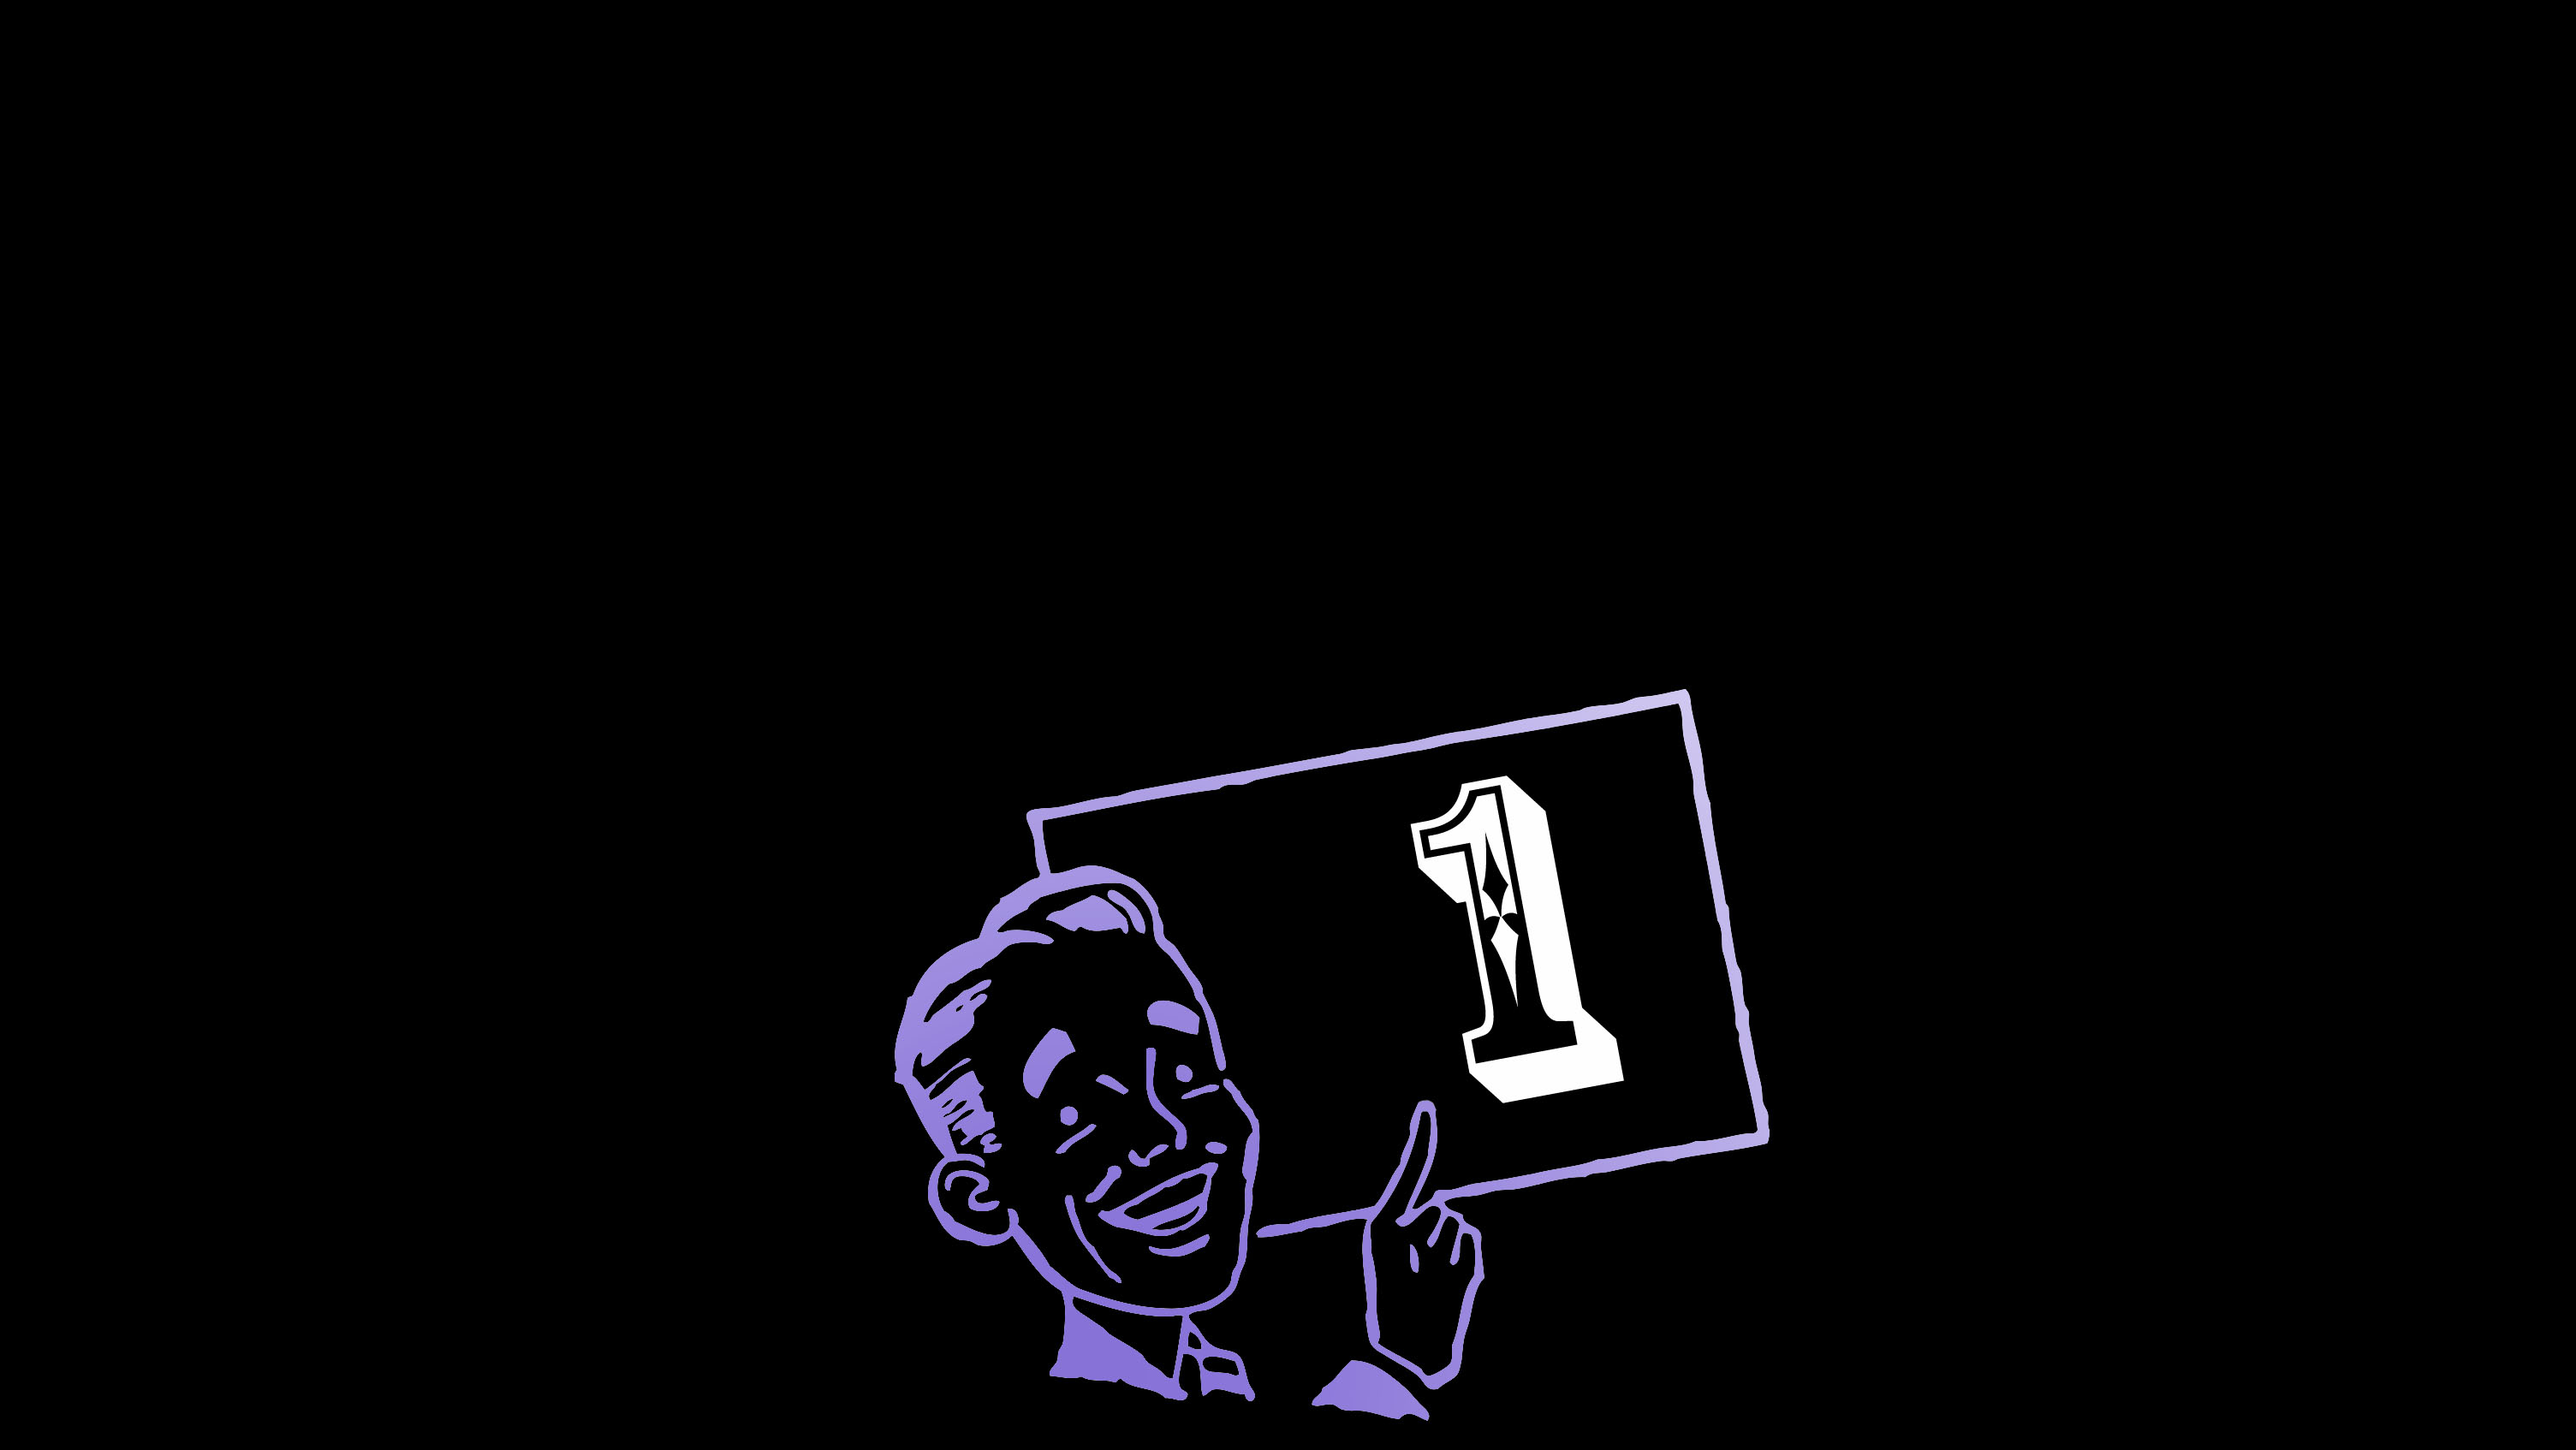
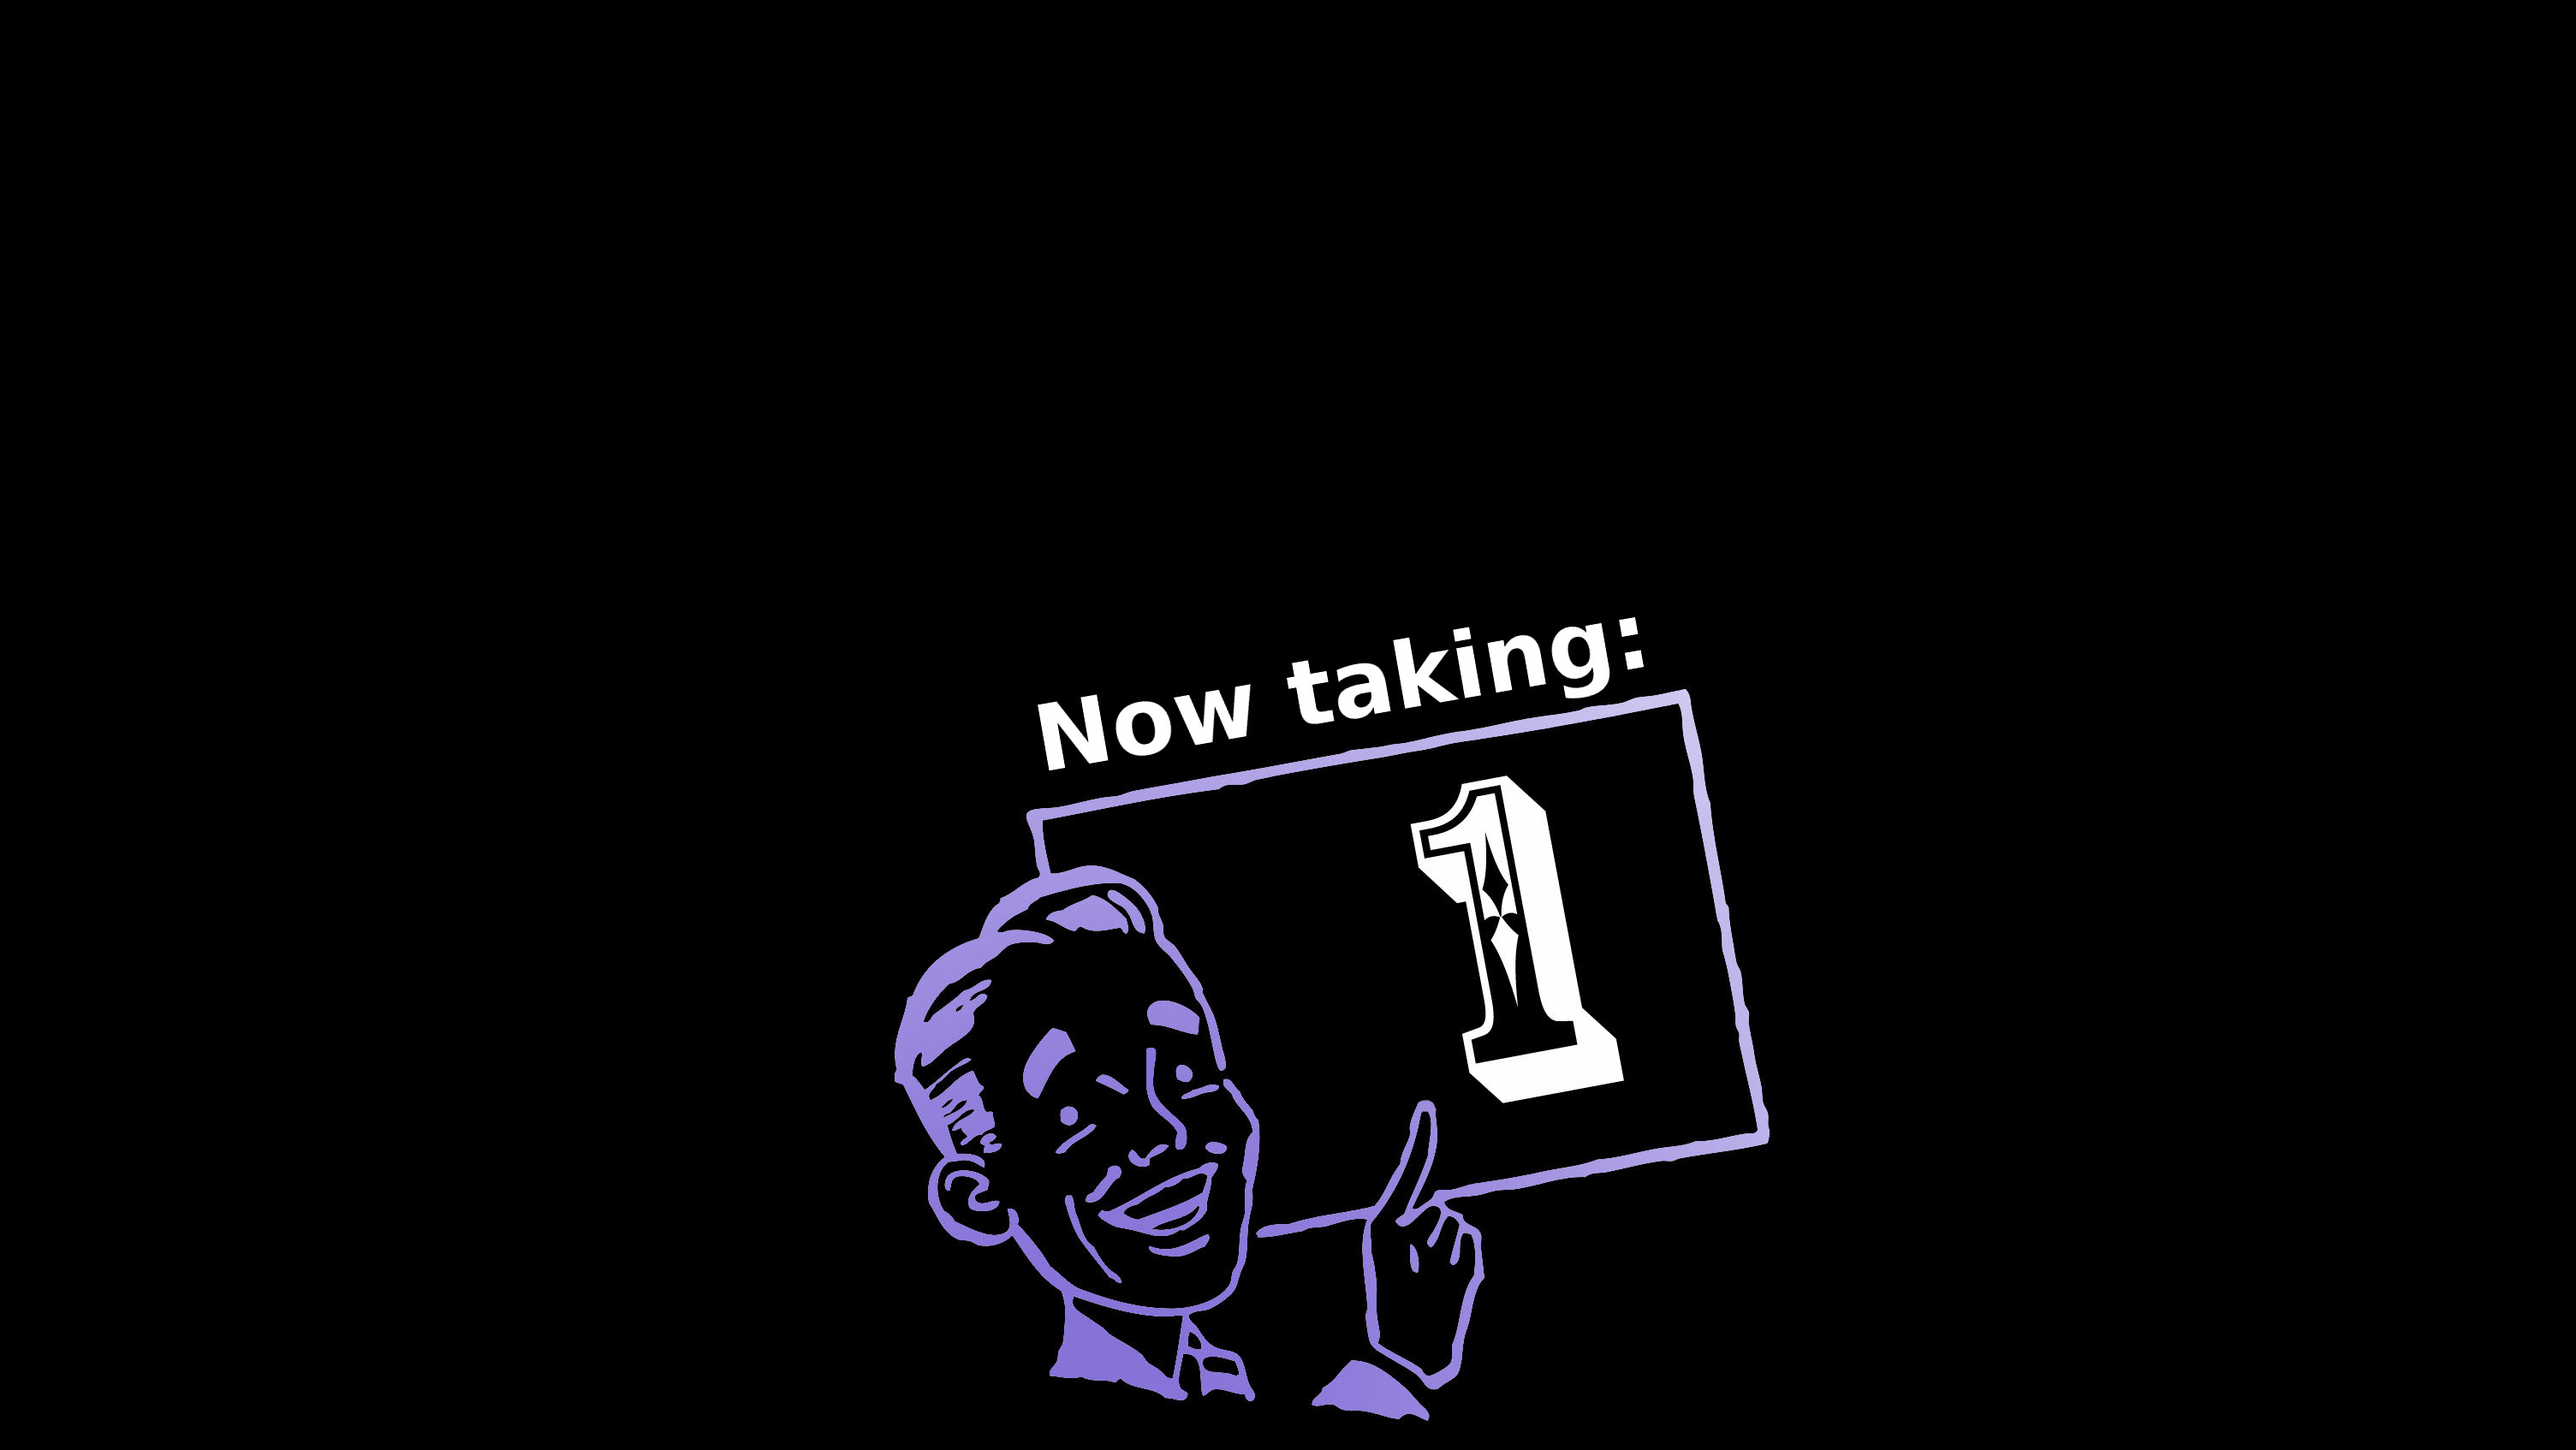
images for DN event, added contextual button screen, added text to photo count

Changed region(s): [[0.4061, 0.4298, 0.656, 0.5218]]

diff --git a/photobooth.py b/photobooth.py
@@ -104,7 +104,10 @@ while (1):
 	# wait for key push.
 	# bb = raw_input('\r\nHit return to continue...')
 	#showtext(screen, "Push a button to start", 100)
-	displayimage(screen, 'images/pushtostart.jpg', size)
+	if default_tone in ['-2x3', '-4x6']:
+		displayimage(screen, 'images/pushtostart-nochoice.jpg', size)
+	else:	
+		displayimage(screen, 'images/pushtostart.jpg', size)
 
 	key = waitforkey([K_g, K_r, K_y])
 	if default_tone=='':
